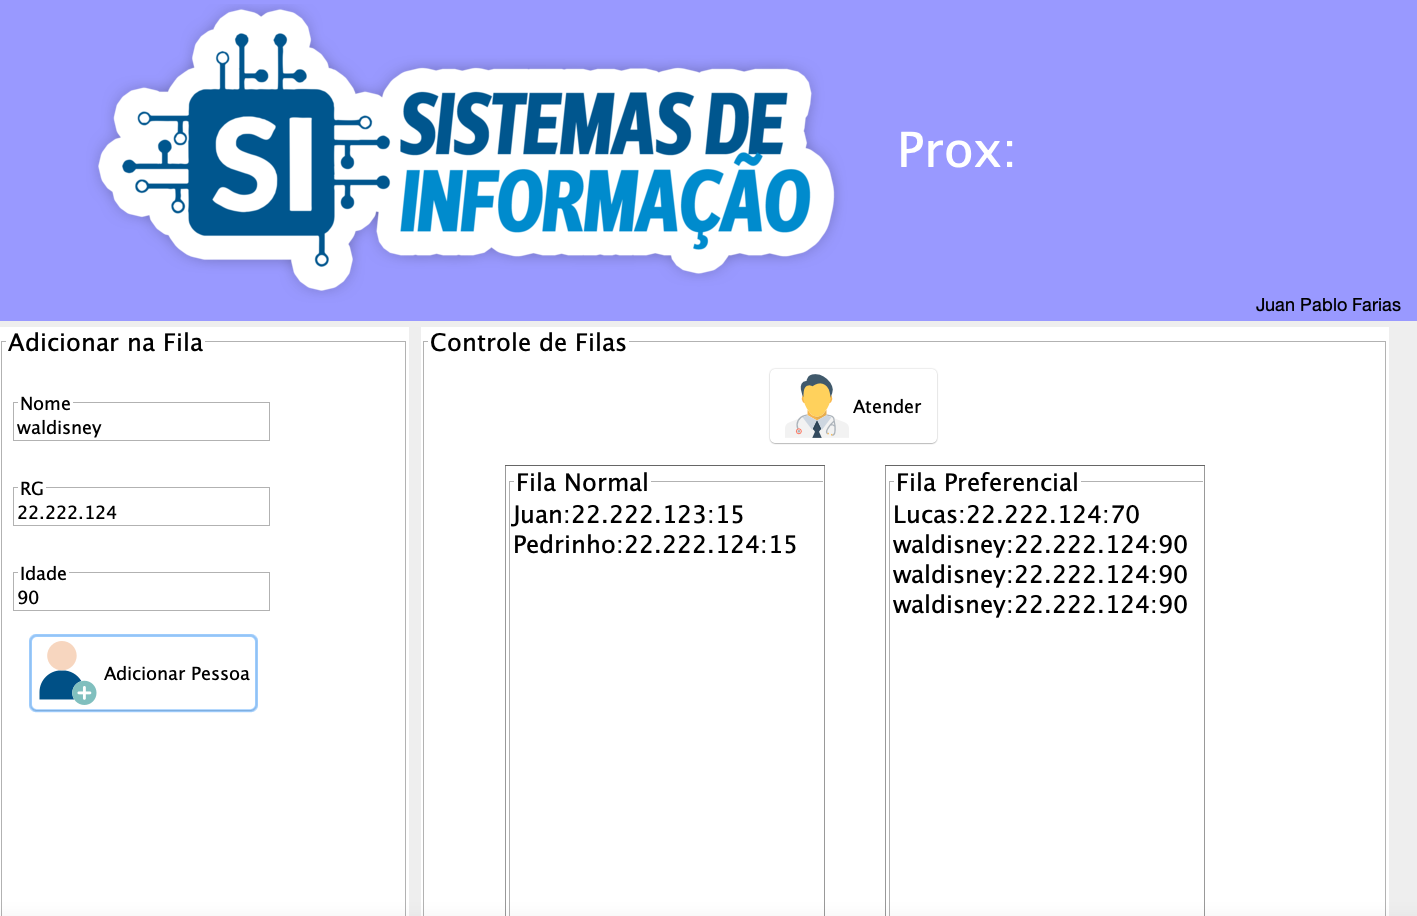
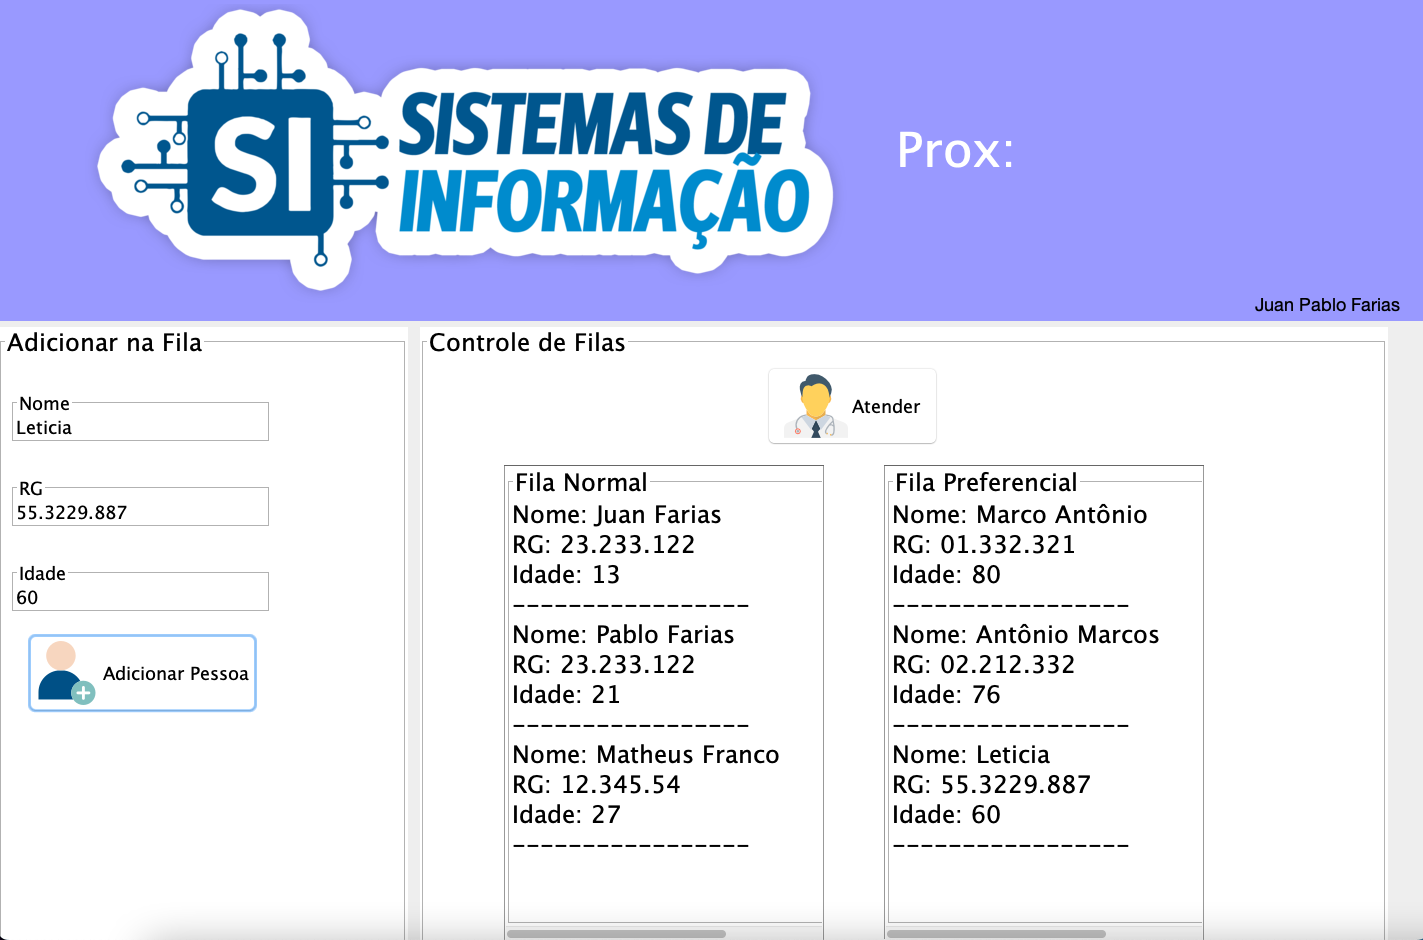
Melhorias no Código

diff --git a/src/javaqueue/FormFila.java b/src/javaqueue/FormFila.java
@@ -210,17 +210,22 @@ public class FormFila extends javax.swing.JFrame {
         pack();
     }// </editor-fold>//GEN-END:initComponents
     int cont = 0;
+    
+    
     void mostra(){
+
         listFilaNormal.setText("");
-        if(!filaNormal.isEmpty())
-            for(Pessoa p:filaNormal)
-                listFilaNormal.append(p+"\n");
-        
         listFilaPreferencial.setText("");
-        if(!filaPrioridade.isEmpty())
-            for(Pessoa p:filaPrioridade)
-                listFilaPreferencial.append(p+"\n"); 
              
+            for(Pessoa p:filaNormal){
+                String dataFormated = "Nome: " + p.getNome() + "\nRG: " + p.getRg() +"\nIdade: " + p.getIdade() + "\n-----------------\n";
+                listFilaNormal.append(dataFormated);
+            }
+        
+            for(Pessoa p:filaPrioridade){
+                String dataFormated = "Nome: " + p.getNome() + "\nRG: " + p.getRg() +"\nIdade: " + p.getIdade() + "\n-----------------\n";
+                listFilaPreferencial.append(dataFormated);
+            }
             
     }
     private void btnAddActionPerformed(java.awt.event.ActionEvent evt) {//GEN-FIRST:event_btnAddActionPerformed
@@ -234,21 +239,23 @@ public class FormFila extends javax.swing.JFrame {
         }
         else
             filaPrioridade.add(p);      
-            mostra();
+                mostra();
    
     }//GEN-LAST:event_btnAddActionPerformed
 
     private void btnAtenderActionPerformed(java.awt.event.ActionEvent evt) {//GEN-FIRST:event_btnAtenderActionPerformed
         
         if (!filaPrioridade.isEmpty() || !filaNormal.isEmpty()){
-            if((cont < 3 || filaNormal.isEmpty()) && !filaPrioridade.isEmpty()){
+            
+            if((cont <= 3 || filaNormal.isEmpty()) && !filaPrioridade.isEmpty()){
                 Pessoa p = new Pessoa();
                 p = filaPrioridade.remove(); //dequeue
                 lblProx.setText("Prox:" +p.getNome());                     
                 cont ++;
                 mostra();
             }
-            else if((cont >= 3 || filaPrioridade.isEmpty()) && !filaNormal.isEmpty()){
+
+            if((cont > 3 || filaPrioridade.isEmpty()) && !filaNormal.isEmpty()){
                 Pessoa p = new Pessoa();
                 p = filaNormal.remove(); //dequeue
                 lblProx.setText("Prox:" +p.getNome());                     
